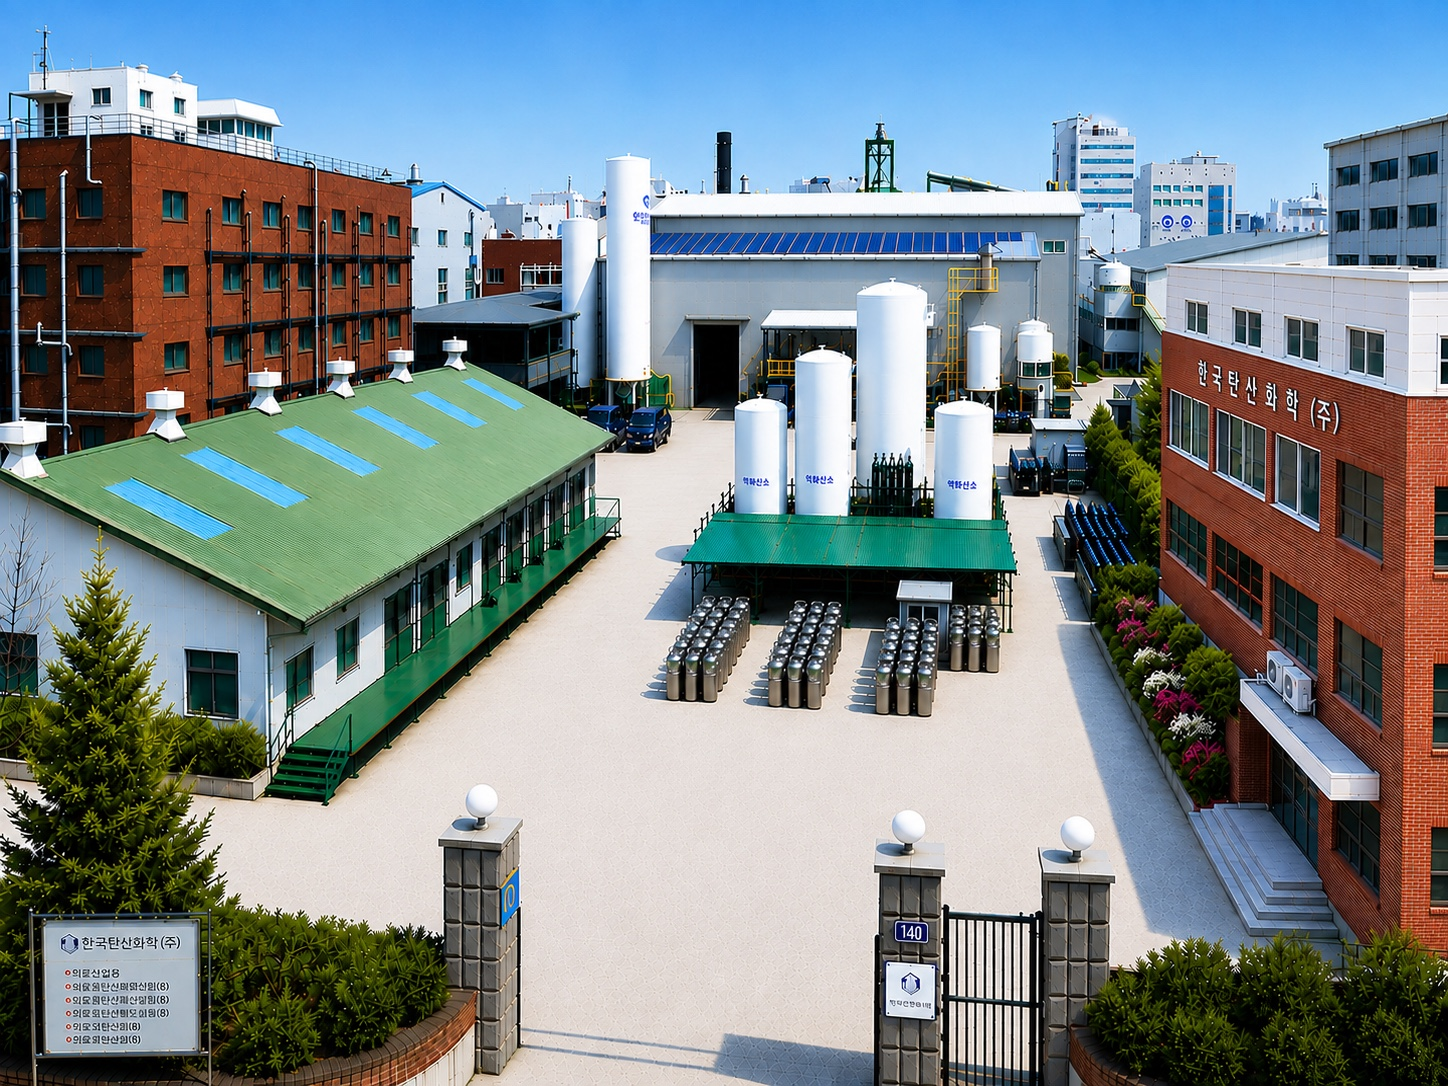
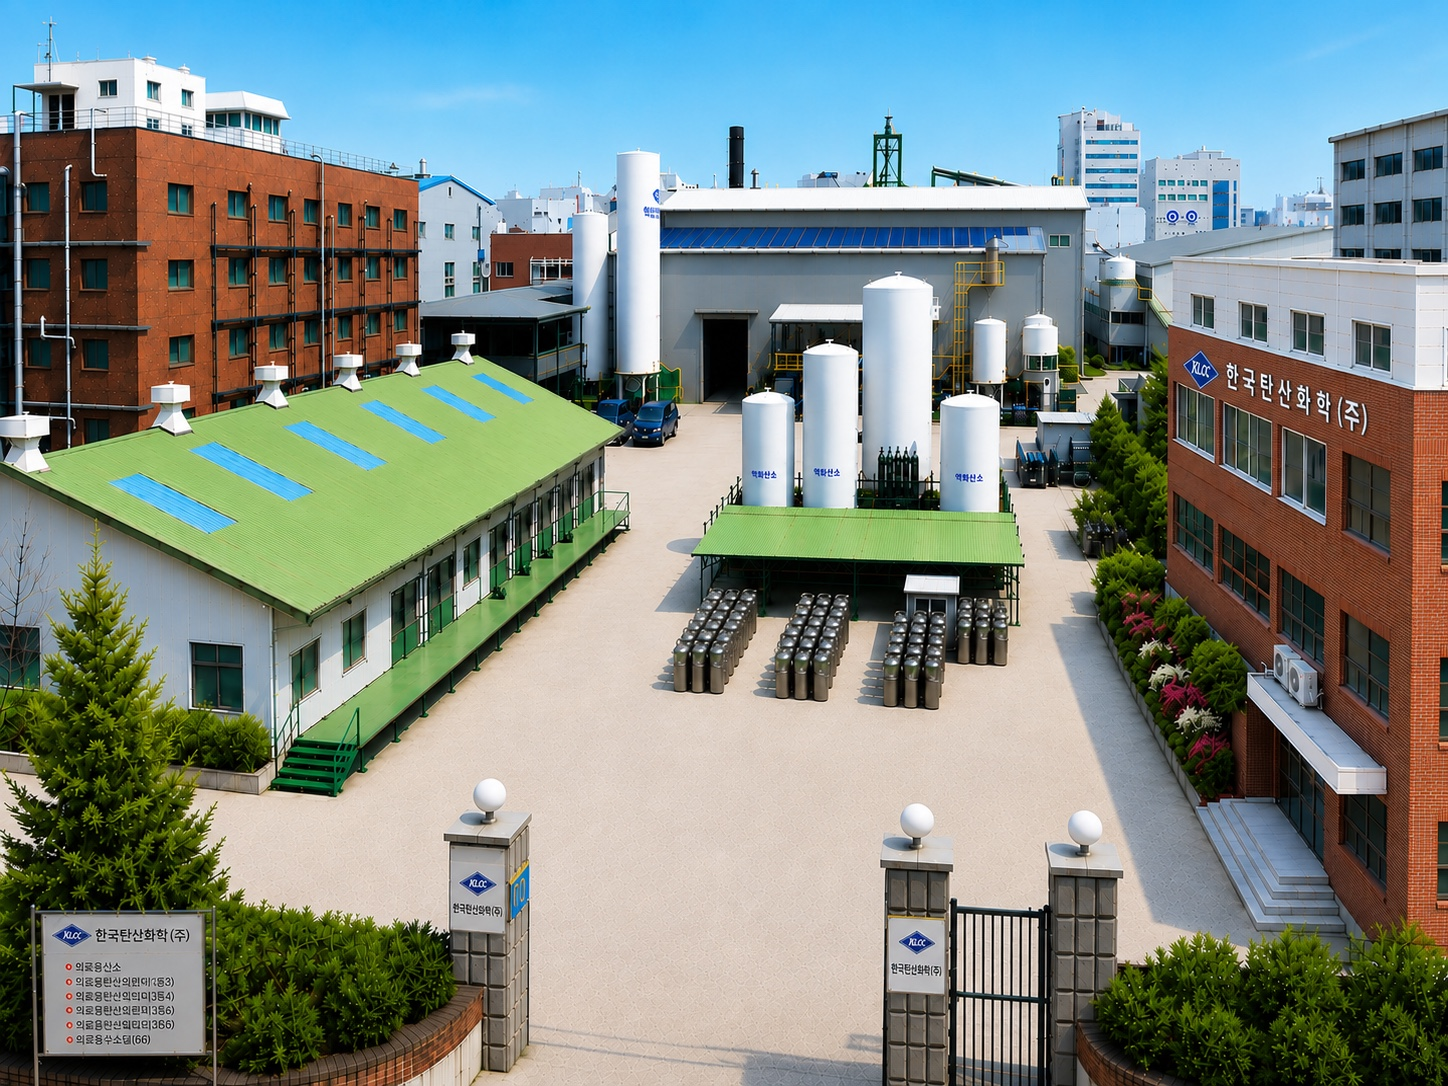
홈 ABOUT US: 사진을 새 플랜트 조감 이미지(한국탄산화학 사옥·액화산소 저장탱크·가스용기·정문 전경, 1448x1086)로 교체. about-plant.jpg ?v=20260826

diff --git a/index.html b/index.html
@@ -111,7 +111,7 @@
     <section class="section" id="about-home">
       <div class="container about-home">
         <div class="about-home__media">
-          <img src="assets/images/site/about-plant.jpg?v=20260821b" alt="한국탄산화학㈜ 시흥공장 전경" loading="lazy">
+          <img src="assets/images/site/about-plant.jpg?v=20260826" alt="한국탄산화학㈜ 시흥공장 전경" loading="lazy">
         </div>
         <div class="about-home__body">
           <span class="eyebrow" data-i18n="home.about.eyebrow">About Us</span>
